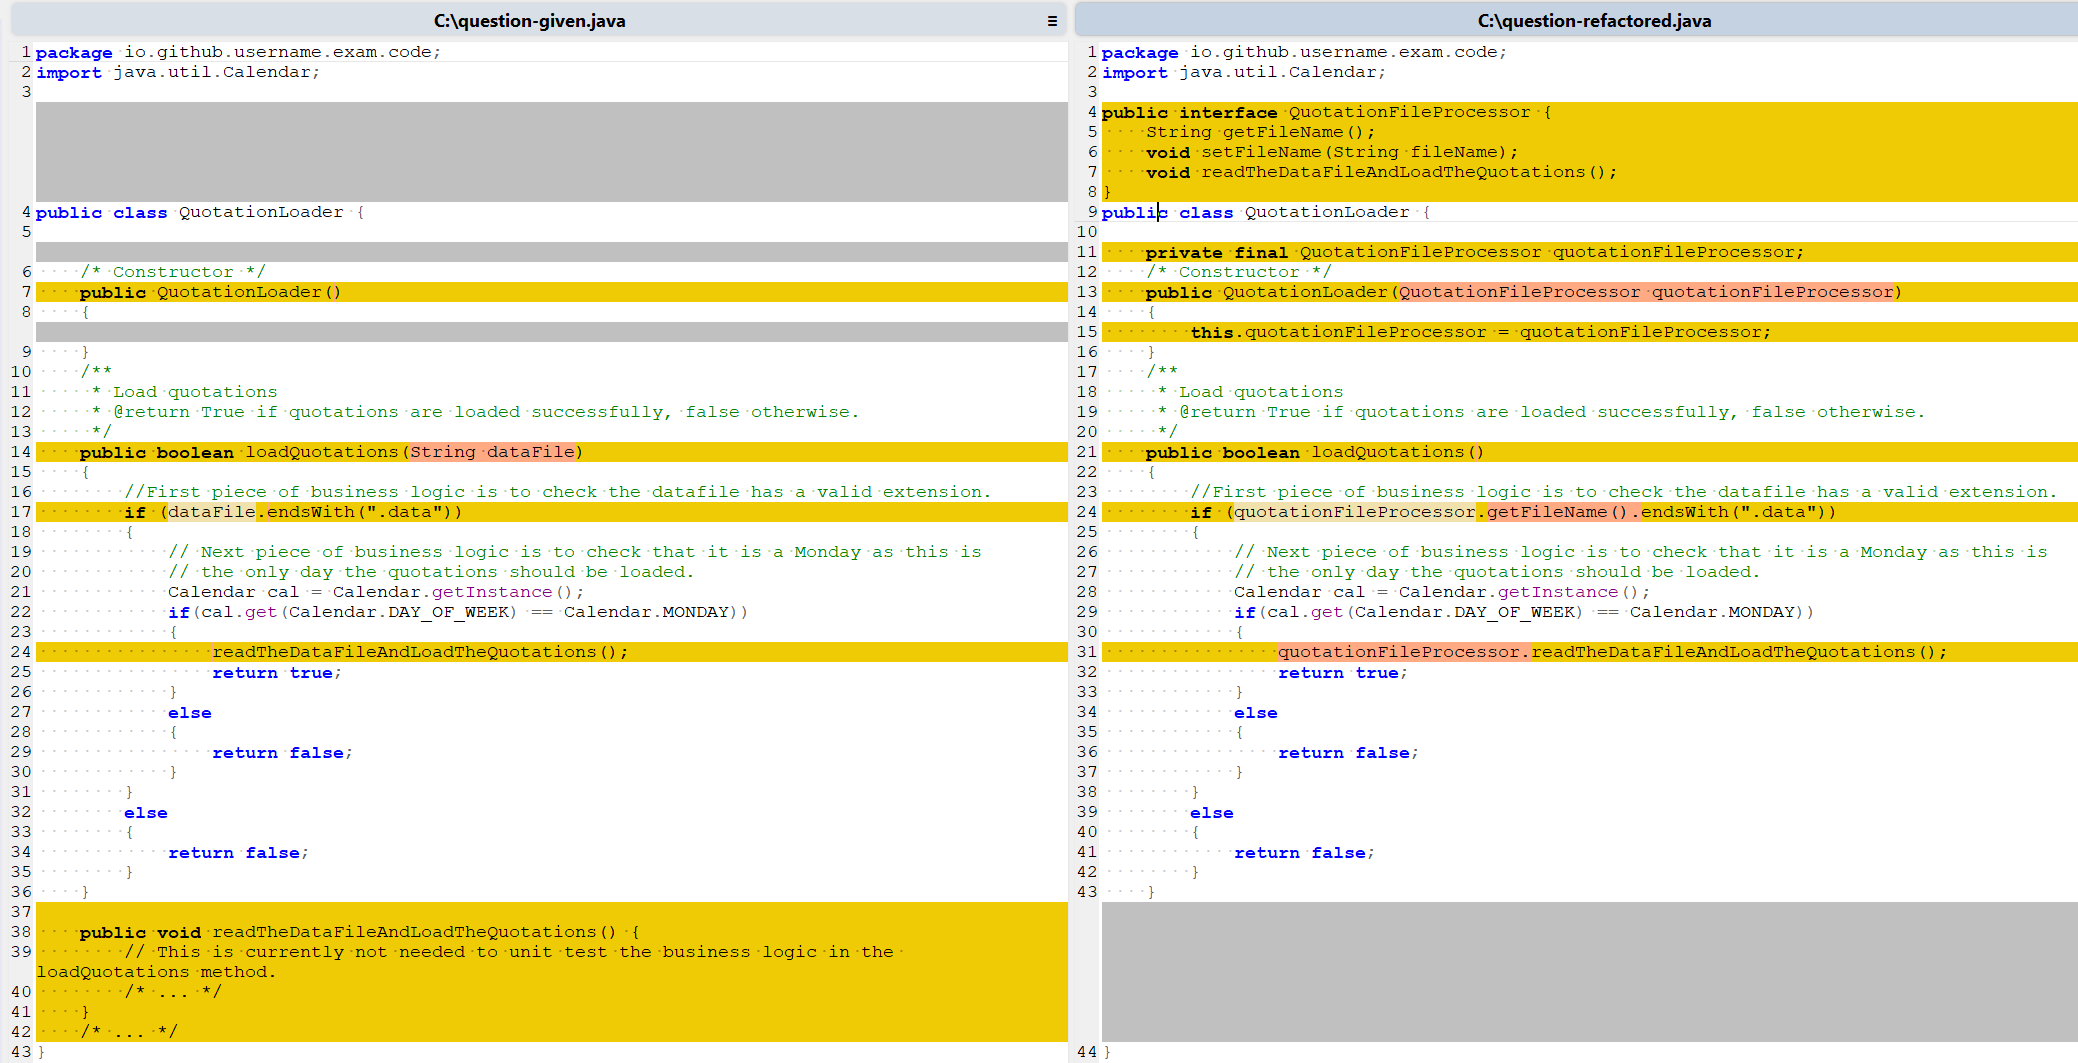
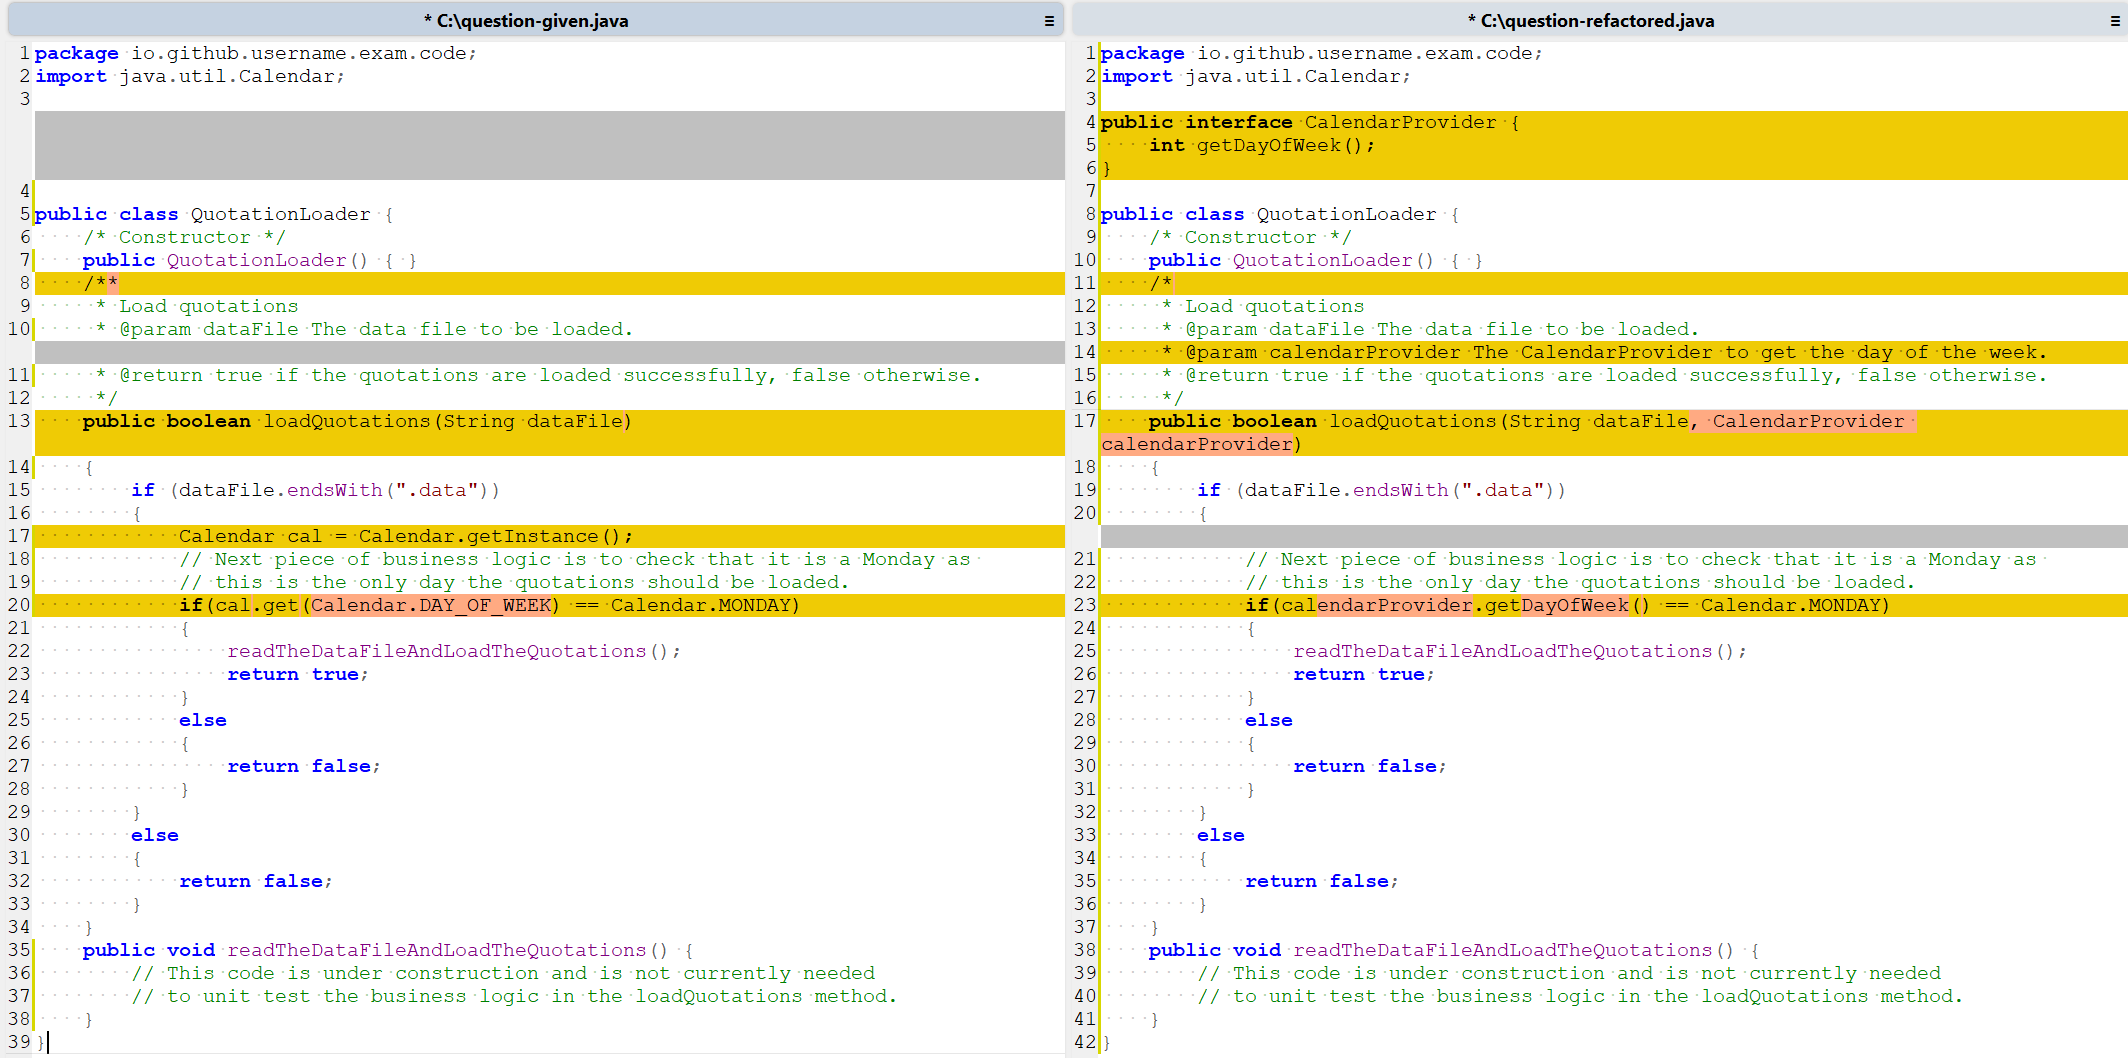
Improved question 3.

diff --git a/exam-papers/2024-software-testing-sodv06010-solution.md b/exam-papers/2024-software-testing-sodv06010-solution.md
@@ -261,58 +261,37 @@ package io.github.username.exam.code;
 import java.util.Calendar;
 
 /**
- * Step 1: Introduce an Interface for the File Processing
- * This interface defines the methods required for processing the quotation data file.
- * i.e getter and setter for the file name because loadQuotations method needs to check the file extension
- * and the method readTheDataFileAndLoadTheQuotations() because it is to be unit tested in the loadQuotations method.
-*/
-public interface CalendarProvider {
+ * STEP 1: Introduce an Interface to Provider a Day of the Week from a Calendar
+ * This interface defines the Calendar output required for validating the day of the week.
+ * i.e getter for the day of the week.
+ */
+public interface CalendarProvider
+{
     int getDayOfWeek();
 }
-
-public interface QuotationFileProcessor {
-    String getFileName();
-    void readTheDataFileAndLoadTheQuotations();
-}
-
 /**
- * Step 2: Refactor the QuotationLoader Class to make it testable
- * The QuotationLoader class is refactored to use the QuotationFileProcessor interface through constructor injection.
+ * STEP 2: Refactor the QuotationLoader Class to make it testable
+ * The QuotationLoader class is refactored to use the CalendarProvider interface through method injection.
 */
-public class QuotationLoader {
-
+public class QuotationLoader
+{
+    public QuotationLoader() {} // Default constructor
     /**
-     * Field to hold the QuotationFileProcessor by it's interface.
+     * STEP 3: Refactor the loadQuotations method to use the CalendarProvider parameter.
+     * @param dataFile The data file to be loaded.
+     * @param calendarProvider The CalendarProvider to get the day of the week.
+     * @return true if the quotations are loaded successfully, false otherwise.
      */
-    private final QuotationFileProcessor quotationFileProcessor;
-    /**
-     * Field to hold the CalendarProvider by it's interface.
-     */
-    private final CalendarProvider calendarProvider;
-
-    /**
-     * Constructor to inject the QuotationFileProcessor.
-     * @param quotationFileProcessor The QuotationFileProcessor implementation.
-     * @param calendarProvider The CalendarProvider implementation.
-     */
-    public QuotationLoader(QuotationFileProcessor quotationFileProcessor, CalendarProvider calendarProvider) {
-        this.calendarProvider = calendarProvider;
-        this.quotationFileProcessor = quotationFileProcessor;
-    }
-
-    /**
-     * Step 3: Refactor the loadQuotations method to use the QuotationFileProcessor field.
-     * */
-    public Boolean loadQuotations()
+    public Boolean loadQuotations(String dataFile, CalendarProvider calendarProvider)
     {
         //First piece of business logic is to check the datafile has a valid extension.
-        if (quotationFileProcessor.getFileName().endsWith(".data"))  // Using quotationFileProcessor.getFileName() instead of dataFile
+        if (dataFile.endsWith(".data"))
         {
             // Next piece of business logic is to check that it is a Monday as this is
             // the only day the quotations should be loaded.
-            if(calendarProvider.getDayOfWeek() == Calendar.MONDAY)
+            if(calendarProvider.getDayOfWeek() == Calendar.MONDAY) // Refactored to use the CalendarProvider
             {
-                quotationFileProcessor.readTheDataFileAndLoadTheQuotations();// Using quotationFileProcessor.readTheDataFileAndLoadTheQuotations() instead of readTheDataFileAndLoadTheQuotations()
+                readTheDataFileAndLoadTheQuotations();
                 return true;
             }
             else
@@ -325,10 +304,15 @@ public class QuotationLoader {
             return false;
         }
     }
+    public void readTheDataFileAndLoadTheQuotations() {
+        // This code is under construction and is not currently needed
+        // to unit test the business logic in the loadQuotations method.
+        /* ... */
+    }
 }
 ```
 
-![1723483011835](images/2024-software-testing-sodv06010-solution/answer-3a-before-and-after.png)
+![Before and After Refactoring](images/2024-software-testing-sodv06010-solution/answer-3a-before-and-after.png)
 
 **A better less complex `loadQuotations` method**  
 
@@ -336,17 +320,18 @@ public class QuotationLoader {
 /* ... */
 public class QuotationLoader {
     /* ... */
-    public Boolean loadQuotations()
+    public Boolean loadQuotations(String dataFile, CalendarProvider calendarProvider)
     {
-        if (!quotationFileProcessor.getFileName().endsWith(".data"))
+        if (!dataFile.endsWith(".data"))
             return false;
 
         if(!calendarProvider.getDayOfWeek() == Calendar.MONDAY)
             return false;
 
-        quotationFileProcessor.readTheDataFileAndLoadTheQuotations();
+        readTheDataFileAndLoadTheQuotations();
         return true;
     }
+    /* ... */
 }
 ```
 
@@ -362,24 +347,6 @@ Write code or pseudocode for three unit tests to test the business logic in the 
 package io.github.username.exam.code;
 import java.util.Calendar;
 
-public class QuotationFileProcessorStub implements QuotationFileProcessor {
-
-    private String fileName;
-    public String getFileName()
-    {
-        System.out.println("Getting file name");
-        return fileName;
-    }
-    public void setFileName(String fileName)
-    {
-        System.out.println("Setting file name: " + fileName);
-        this.fileName = fileName;
-    }
-    public void readTheDataFileAndLoadTheQuotations()
-    {
-        System.out.println("Reading and loading quotations from file");
-    }
-}
 public class CalendarProviderStub implements CalendarProvider {
 
     private int dayOfWeek;
@@ -405,38 +372,35 @@ public class OvertimeHoursProcessorTest {
 
     @Test
     public void testQuotationLoaderWithValidFileOnValidDay() {
-        QuotationFileProcessorStub fileProcessorStub = new QuotationFileProcessorStub();
-        fileProcessorStub.setFileName("valid-data-file.data");
+        String fileName = "valid-data-file.data";
 
         CalendarProviderStub calendarStub = new CalendarProviderStub();
         calendarStub.setDayOfWeek(Calendar.MONDAY);
 
-        QuotationLoader loader = new QuotationLoader(fileProcessorStub, calendarStub);
-        assertTrue(loader.loadQuotations());
+        QuotationLoader loader = new QuotationLoader();
+        assertTrue(loader.loadQuotations(fileName, calendarStub));
     }
 
     @Test
     public void testQuotationLoaderWithInvalidFileOnValidDay() {
-        QuotationFileProcessorStub fileProcessorStub = new QuotationFileProcessorStub();
-        fileProcessorStub.setFileName("invalid-data-file.invalid");
+        String fileName = "invalid-data-file.invalid";
 
         CalendarProviderStub calendarStub = new CalendarProviderStub();
         calendarStub.setDayOfWeek(Calendar.MONDAY);
 
-        QuotationLoader loader = new QuotationLoader(fileProcessorStub, calendarStub);
-        assertFalse(loader.loadQuotations());
+        QuotationLoader loader = new QuotationLoader();
+        assertFalse(loader.loadQuotations(fileName, calendarStub));
     }
 
     @Test
     public void testQuotationLoaderWithValidFileOnInvalidDay() {
-        QuotationFileProcessorStub fileProcessorStub = new QuotationFileProcessorStub();
-        fileProcessorStub.setFileName("valid-data-file.data");
+        String fileName = "valid-data-file.data";
 
         CalendarProviderStub calendarStub = new CalendarProviderStub();
         calendarStub.setDayOfWeek(Calendar.Sunday);
 
-        QuotationLoader loader = new QuotationLoader(fileProcessorStub, calendarStub);
-        assertFalse(loader.loadQuotations());
+        QuotationLoader loader = new QuotationLoader();
+        assertFalse(loader.loadQuotations(fileName, calendarStub));
     }
 }
 ```

diff --git a/exam-papers/2019-software-testing-sodv06002-solution.md b/exam-papers/2019-software-testing-sodv06002-solution.md
@@ -214,7 +214,7 @@ Consider a software module that is intended to accept the `name of a grocery ite
 | TC11      | "Banana,10,20,30,40,48"    | Valid input     | isInputValid                                                                                                       | E01, E03, E05, E07, E09, E11 **(E13)**                                        |
 | TC12      | "Banana,10,20,30,40,50"    | Invalid input   | isNameValid, isNameLengthValid, isSizeListValid, isSizeListOrderAsc, isEachSizeWholeNumber, `isEachSizeNotInRange` | E01, E03, E05, E07, E09, `E12`                                                |
 | TC13      | "Banana,10,20,30,40,40"    | Valid input     | isInputValid                                                                                                       | E01, E03, E05, E07, E09, E11 **(E13)** *(Duplicate sizes in ascending order)* |
-| TC14      | "Banana,10,20,30,40,39"    | Invalid input   | isNameValid, isNameLengthValid, isSizeListValid, `isNotSizeListOrderAsc`, isEachSizeWholeNumber, isEachSizeInRange   | E01, E03, E05, `E08`, E09, E11                                                |
+| TC14      | "Banana,10,20,30,40,39"    | Invalid input   | isNameValid, isNameLengthValid, isSizeListValid, `isNotSizeListOrderAsc`, isEachSizeWholeNumber, isEachSizeInRange | E01, E03, E05, `E08`, E09, E11                                                |
 | TC15      | "Banana,10,20,30,40,41"    | Valid input     | isInputValid                                                                                                       | E01, E03, E05, E07, E09, E11 **(E13)**                                        |
 
 ## Paper College Details
